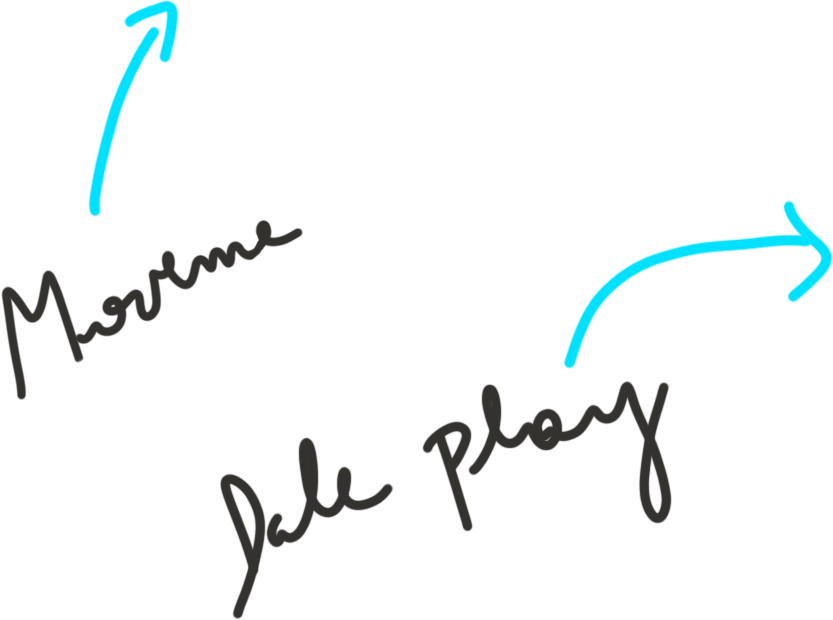
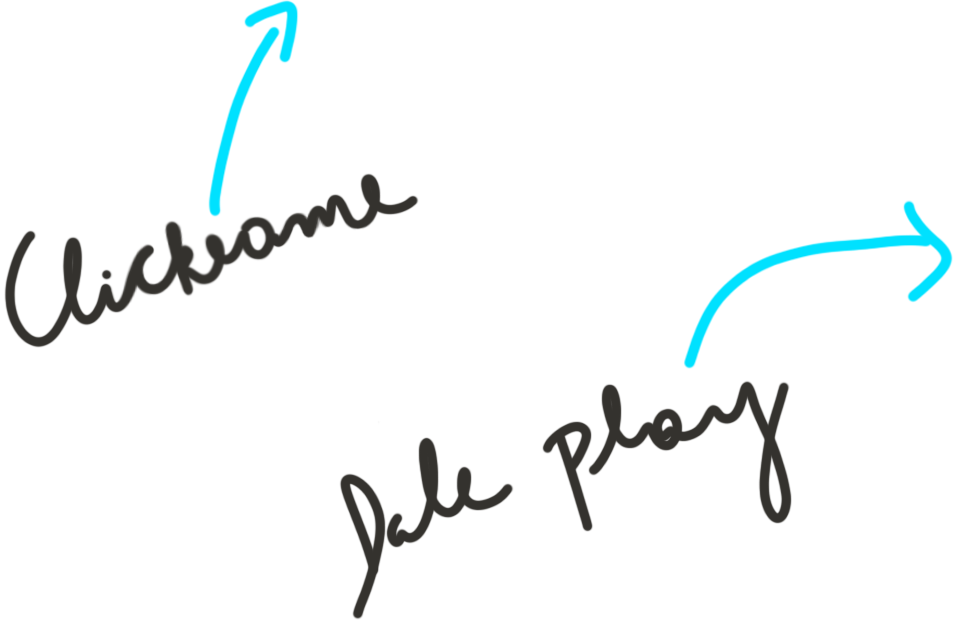
Missing CTAs

diff --git a/src/pages/index.js b/src/pages/index.js
@@ -64,6 +64,8 @@ import CTA_Army from "../components/images/CTA/army"
 import CTA_Unicef from "../components/images/CTA/unicef"
 import CTA_Clinique from "../components/images/CTA/clinique"
 import CTA_Palomitas from "../components/images/CTA/palomitas"
+import CTA_Cheetos from "../components/images/CTA/cheetos"
+import CTA_Bimbo from "../components/images/CTA/bimbo"
 
 import CheetosGallery from "../components/CheetosGallery"
 import BimboGallery from "../components/BimboGallery"
@@ -233,23 +235,28 @@ const IndexPage = () => {
         <div className={`${styles.CTA_burger} ${styles.cta}`}>
           <CTA_Burger />
         </div>
-        <div
-          className={styles.cheetosGallery}
-          onClick={() => setOpenedGallery("cheetos")}
-        >
-          <CheetosStill1 className={styles.cheetos1} />
-          <CheetosStill2 className={styles.cheetos2} />
-          <CheetosStill3 className={styles.cheetos3} />
-          <CheetosStill4 className={styles.cheetos4} />
-        </div>
-        <div className={styles.cheetos}>
-          <img src={Cheetos2}></img>
-        </div>
-        <div
-          className={styles.cheetosVideo}
-          onClick={() => setPlayingVideo("cheetos")}
-        >
-          <img src={Cheetos1}></img>
+        <div className={styles.cheetosContainer}>
+          <div
+            className={styles.cheetosGallery}
+            onClick={() => setOpenedGallery("cheetos")}
+          >
+            <CheetosStill1 className={styles.cheetos1} />
+            <CheetosStill2 className={styles.cheetos2} />
+            <CheetosStill3 className={styles.cheetos3} />
+            <CheetosStill4 className={styles.cheetos4} />
+          </div>
+          <div className={styles.cheetos}>
+            <img src={Cheetos2}></img>
+          </div>
+          <div
+            className={styles.cheetosVideo}
+            onClick={() => setPlayingVideo("cheetos")}
+          >
+            <img src={Cheetos1}></img>
+          </div>
+          <div className={`${styles.CTA_cheetos} ${styles.cta}`}>
+            <CTA_Cheetos />
+          </div>
         </div>
         <div className={styles.firulete3}>
           <Firulete3 />
@@ -276,14 +283,19 @@ const IndexPage = () => {
             <CTA_Cata />
           </div>
         </div>
-        <div
-          className={styles.bimboGallery}
-          onClick={() => setOpenedGallery("bimbo")}
-        >
-          <BimboStill1 className={styles.bimbo1} />
-          <BimboStill2 className={styles.bimbo2} />
-          <BimboStill3 className={styles.bimbo3} />
-          <BimboStill4 className={styles.bimbo4} />
+        <div className={styles.bimboContainer}>
+          <div
+            className={styles.bimboGallery}
+            onClick={() => setOpenedGallery("bimbo")}
+          >
+            <BimboStill1 className={styles.bimbo1} />
+            <BimboStill2 className={styles.bimbo2} />
+            <BimboStill3 className={styles.bimbo3} />
+            <BimboStill4 className={styles.bimbo4} />
+          </div>
+          <div className={`${styles.CTA_bimbo} ${styles.cta}`}>
+            <CTA_Bimbo />
+          </div>
         </div>
         <div className={styles.firulete5}>
           <Firulete5 />

diff --git a/src/pages/index.module.css b/src/pages/index.module.css
@@ -155,8 +155,9 @@
 
 .cheetos {
   position: absolute;
+  top: 0;
   width: 19rem;
-  transform: translate(38rem, -20rem);
+  transform: translate(21rem, -3rem);
 }
 
 .cheetos img {
@@ -165,8 +166,9 @@
 
 .cheetosVideo {
   position: absolute;
+  top: 0;
   width: 29rem;
-  transform: translate(34rem, -8.5rem);
+  transform: translate(18rem, 9rem);
   cursor: pointer;
 }
 
@@ -301,12 +303,20 @@
   background-color: #000000;
 }
 
-.cheetosGallery {
+.cheetosContainer {
   position: absolute;
   width: 12rem;
   transform: translate(18rem, -17rem);
   height: 0;
+
+}
+
+.cheetosGallery {
   cursor: pointer;
+}
+
+.cheetosGallery:hover~.cta {
+  opacity: 1;
 }
 
 .cheetos1 {
@@ -329,12 +339,19 @@
   z-index: 1;
 }
 
-.bimboGallery {
+.bimboContainer {
   position: absolute;
   width: 13rem;
   transform: translate(17rem, 36rem);
   height: 0;
+}
+
+.bimboGallery {
   cursor: pointer;
+}
+
+.bimboGallery:hover+.cta {
+  opacity: 1;
 }
 
 .bimbo1 {
@@ -582,6 +599,20 @@
   transform: translate(32rem, 88rem);
   pointer-events: none;
   z-index: 10;
+}
+
+.CTA_cheetos {
+  position: absolute;
+  top: 0px;
+  width: 24rem;
+  transform: translate(-10rem, 8rem);
+}
+
+.CTA_bimbo {
+  position: absolute;
+  top: 0px;
+  width: 10rem;
+  transform: translate(-10rem, -25rem);
 }
 
 @media only screen and (max-width: 1130px) {

diff --git a/src/components/images/CTA/cheetos.js b/src/components/images/CTA/cheetos.js
@@ -1,0 +1,21 @@
+import React from "react"
+import { useStaticQuery, graphql } from "gatsby"
+import Img from "gatsby-image"
+
+const CTA_Cheetos = () => {
+  const data = useStaticQuery(graphql`
+    query {
+      placeholderImage: file(relativePath: { eq: "CTA/CTA_cheetos.png" }) {
+        childImageSharp {
+          fluid(maxWidth: 300) {
+            ...GatsbyImageSharpFluid
+          }
+        }
+      }
+    }
+  `)
+
+  return <Img fluid={data.placeholderImage.childImageSharp.fluid} />
+}
+
+export default CTA_Cheetos

diff --git a/src/components/images/CTA/bimbo.js b/src/components/images/CTA/bimbo.js
@@ -1,0 +1,21 @@
+import React from "react"
+import { useStaticQuery, graphql } from "gatsby"
+import Img from "gatsby-image"
+
+const CTA_Bimbo = () => {
+  const data = useStaticQuery(graphql`
+    query {
+      placeholderImage: file(relativePath: { eq: "CTA/CTA_bimbo.png" }) {
+        childImageSharp {
+          fluid(maxWidth: 300) {
+            ...GatsbyImageSharpFluid
+          }
+        }
+      }
+    }
+  `)
+
+  return <Img fluid={data.placeholderImage.childImageSharp.fluid} />
+}
+
+export default CTA_Bimbo
